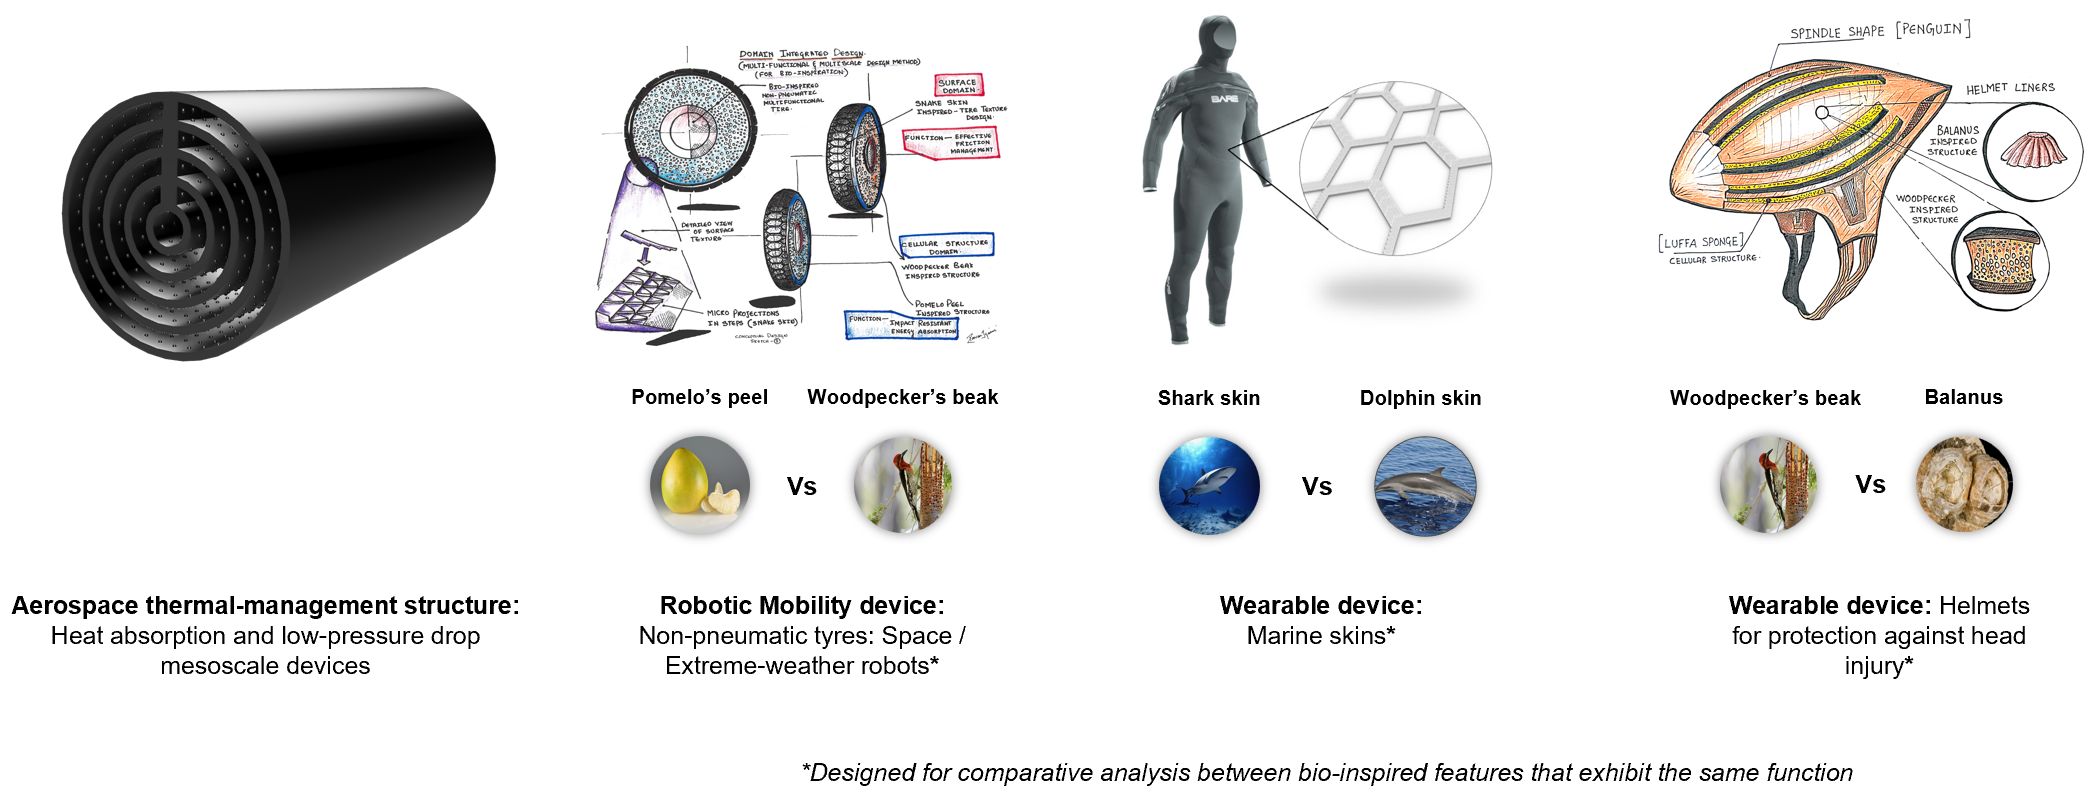
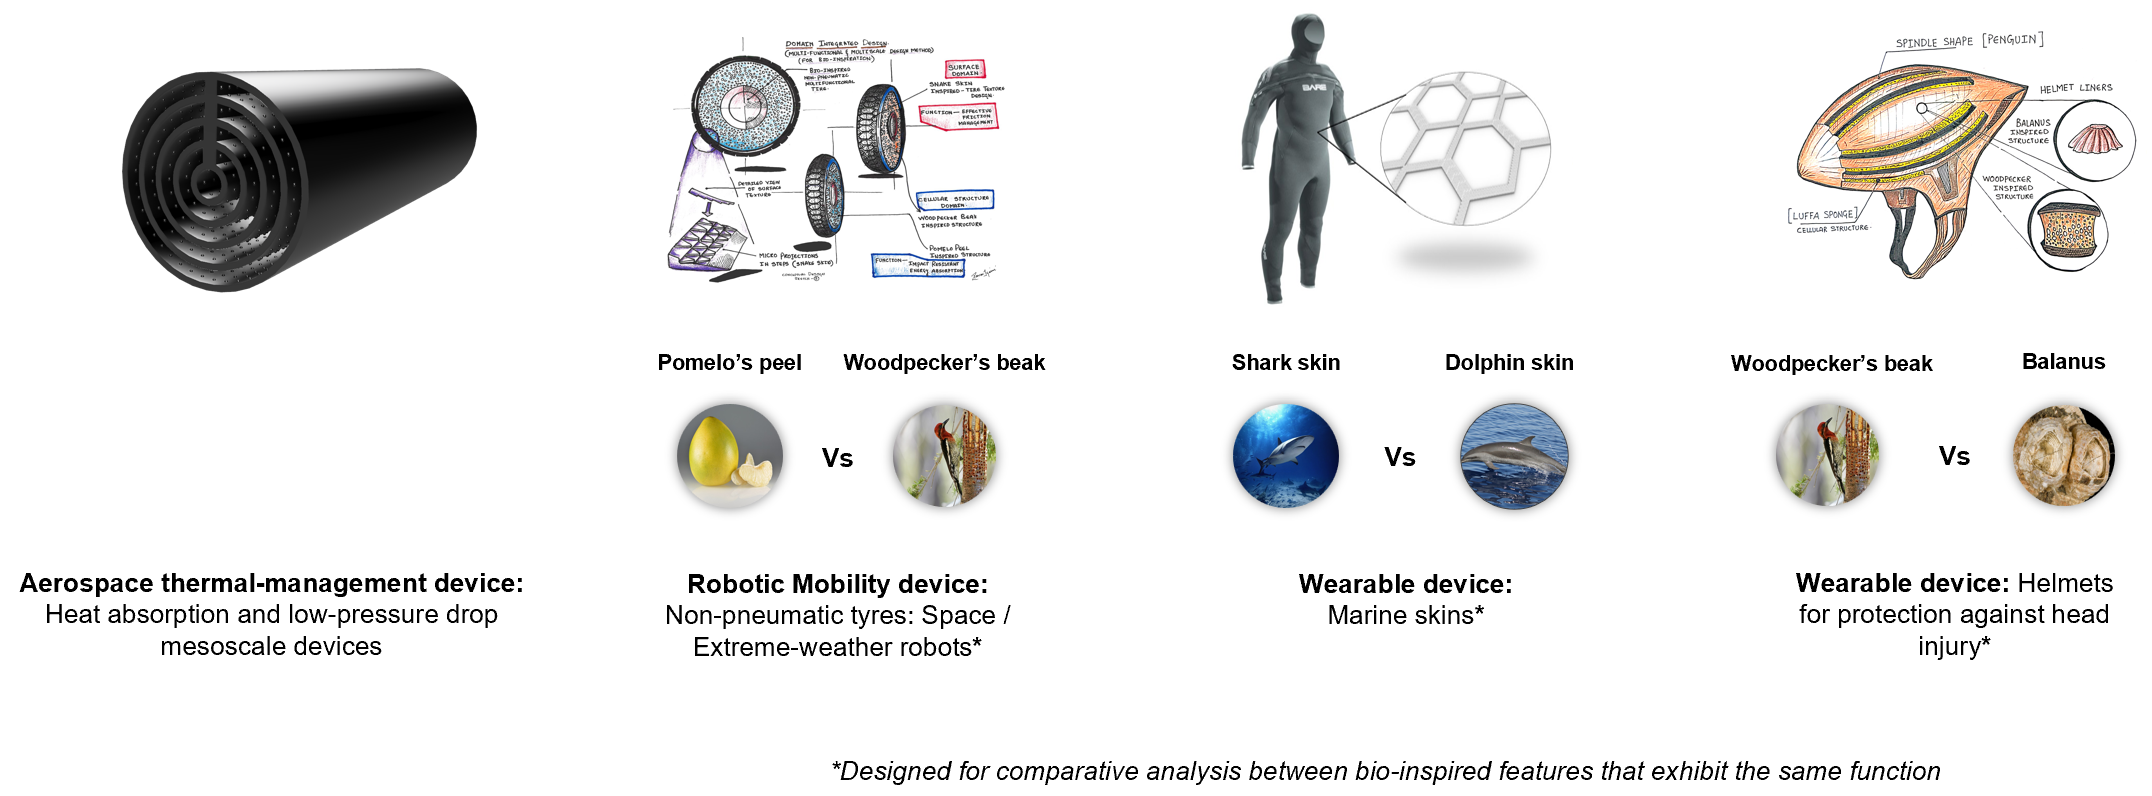
ninety one commit

diff --git a/pages/user-manual.html b/pages/user-manual.html
@@ -26,7 +26,7 @@
         <div class="row">
                 <div class="row-text">
                     <h1><b>MBID ideation system v1.0</b></h1>
-                    <h4><b>Multifunctional Bio-inspired Structures and Devices</b></h4>
+                    <h4><b>Multifunctional Bio-inspired Morphology-Driven Devices</b></h4>
                 </div>
             <img src="../images/mbid1.png" width="35%" alt="MBID Concept Overview">
         </div>
@@ -161,7 +161,7 @@
                 </p>
                 
                 <p>
-                    These include <b>heat absorption and low-pressure drop mesoscale structures</b> that combine camel-nostril-inspired cross-sectional geometries with Namib desert beetle-inspired surface micro-bumps to achieve heat absorption with reduced pressure drop. 
+                    These include <b>heat absorption and low-pressure drop mesoscale devices</b> that combine camel-nostril-inspired cross-sectional geometries with Namib desert beetle-inspired surface micro-bumps to achieve heat absorption with reduced pressure drop. 
                     <b>Non-pneumatic tyres for space and extreme-environment robotics</b> integrate snakeskin-inspired surface features with woodpecker-beak-inspired cellular architectures for enhanced traction and impact resistance. 
                     <b>Marine skins</b> combine honeycomb cellular structures with sharkskin-inspired surface textures to enhance the hydrodynamic performance. 
                     <b>Protective sports helmets</b> integrate a penguin-inspired spindle geometry with luffa-sponge-derived cellular structures and corrugated conical forms inspired by Balanus to improve impact distribution and energy absorption.    

diff --git a/index.html b/index.html
@@ -28,7 +28,7 @@
         <div class="row">
                 <div class="row-text">
                     <h1><b>MBID ideation system v1.0</b></h1>
-                    <h4><b>Multifunctional Bio-inspired Structures and Devices</b></h4>
+                    <h4><b>Multifunctional Bio-inspired Morphology-Driven Devices</b></h4>
                 </div>
             <img src="images/mbid1.png" width="35%" alt="MBID Concept Overview">
         </div>
@@ -83,7 +83,7 @@
                     </p>          
                 </div>
 
-                    <img src="images/micro and macro scale systems.png" class="img-center" width ="95%" alt="Micro and mesoscale systems">
+                    <img src="images/micro and macro scale systems.png" class="img-center" width ="100%" alt="Micro and mesoscale systems">
                     
                     <div id = "header">  
     
@@ -91,7 +91,7 @@
                             The effectiveness of the MBID ideation system is evidenced through cross-sector application and functional validation, including 
                             minimally invasive medical and surgical devices (painless mesoscale suture pins), 
                             passive robotic mobility devices (non-pneumatic tyres), 
-                            aerospace thermal-management structures (heat-absorbing, low-pressure-drop mesoscale architectures), and 
+                            aerospace thermal-management devices (heat-absorbing, low-pressure-drop mesoscale architectures), and 
                             multifunctional wearable devices (marine-adaptive skins and impact-protection helmets).  
                         </p>       
 

diff --git a/pages/cellular.html b/pages/cellular.html
@@ -28,7 +28,7 @@
         <div class="row">
                 <div class="row-text">
                     <h1><b>MBID ideation system v1.0</b></h1>
-                    <h4><b>Multifunctional Bio-inspired Structures and Devices</b></h4>
+                    <h4><b>Multifunctional Bio-inspired Morphology-Driven Devices</b></h4>
                 </div>
             <img src="../images/mbid1.png" width="35%" alt="MBID Concept Overview">
         </div>

diff --git a/pages/cross-sections.html b/pages/cross-sections.html
@@ -27,7 +27,7 @@
         <div class="row">
                 <div class="row-text">
                     <h1><b>MBID ideation system v1.0</b></h1>
-                    <h4><b>Multifunctional Bio-inspired Structures and Devices</b></h4>
+                    <h4><b>Multifunctional Bio-inspired Morphology-Driven Devices</b></h4>
                 </div>
             <img src="../images/mbid1.png" width="35%" alt="MBID Concept Overview">
         </div>

diff --git a/pages/method.html b/pages/method.html
@@ -27,7 +27,7 @@
         <div class="row">
                 <div class="row-text">
                     <h1><b>MBID ideation system v1.0</b></h1>
-                    <h4><b>Multifunctional Bio-inspired Structures and Devices</b></h4>
+                    <h4><b>Multifunctional Bio-inspired Morphology-Driven Devices</b></h4>
                 </div>
             <img src="../images/mbid1.png" width="35%" alt="MBID Concept Overview">
         </div>

diff --git a/pages/shapes.html b/pages/shapes.html
@@ -27,7 +27,7 @@
         <div class="row">
                 <div class="row-text">
                     <h1><b>MBID ideation system v1.0</b></h1>
-                    <h4><b>Multifunctional Bio-inspired Structures and Devices</b></h4>
+                    <h4><b>Multifunctional Bio-inspired Morphology-Driven Devices</b></h4>
                 </div>
             <img src="../images/mbid1.png" width="35%" alt="MBID Concept Overview">
         </div>

diff --git a/pages/surfaces.html b/pages/surfaces.html
@@ -27,7 +27,7 @@
         <div class="row">
                 <div class="row-text">
                     <h1><b>MBID ideation system v1.0</b></h1>
-                    <h4><b>Multifunctional Bio-inspired Structures and Devices</b></h4>
+                    <h4><b>Multifunctional Bio-inspired Morphology-Driven Devices</b></h4>
                 </div>
             <img src="../images/mbid1.png" width="35%" alt="MBID Concept Overview">
         </div>
